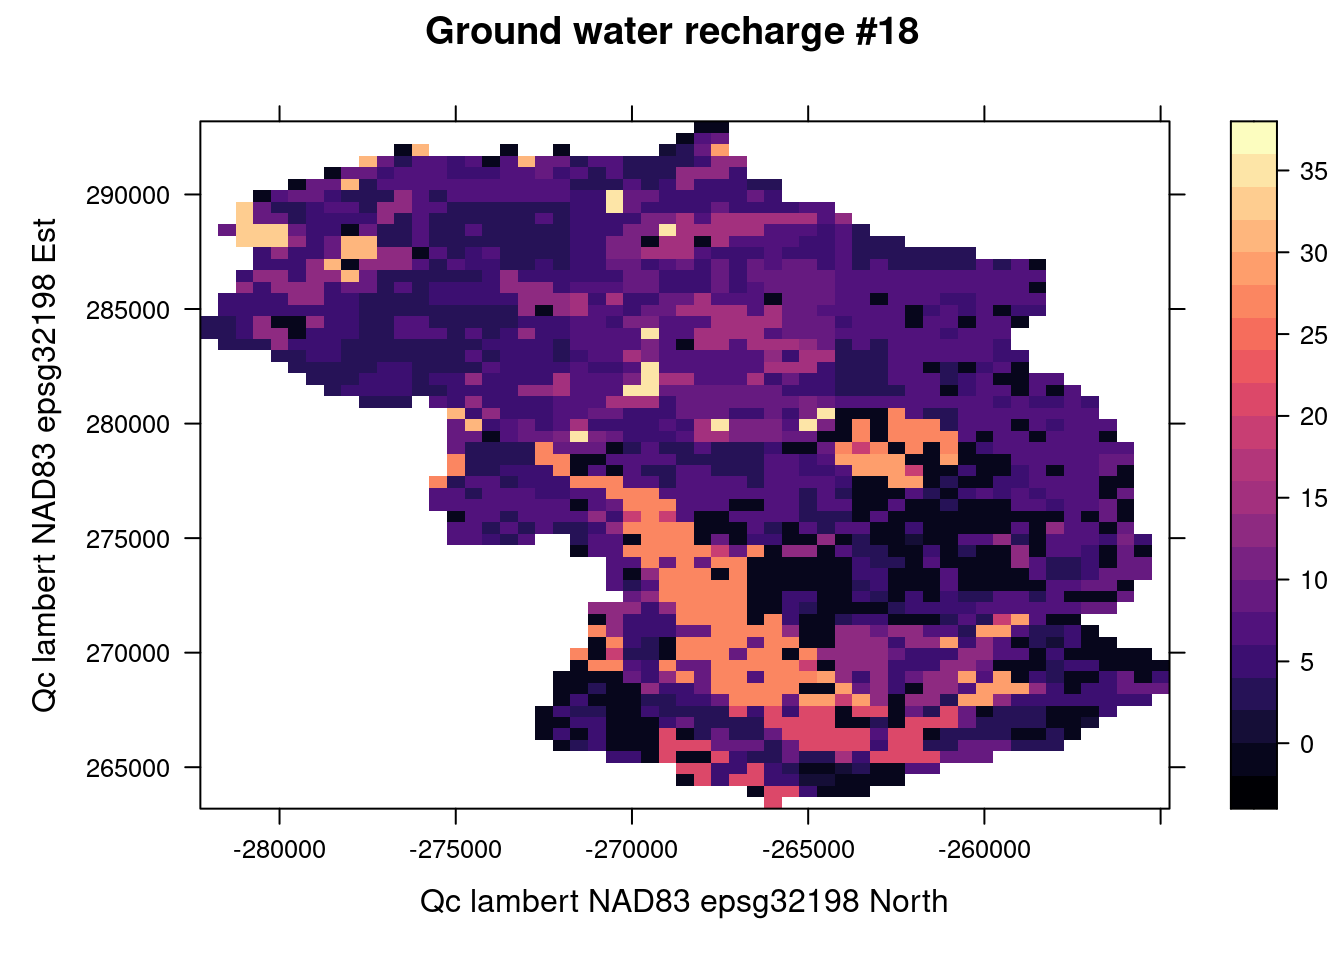
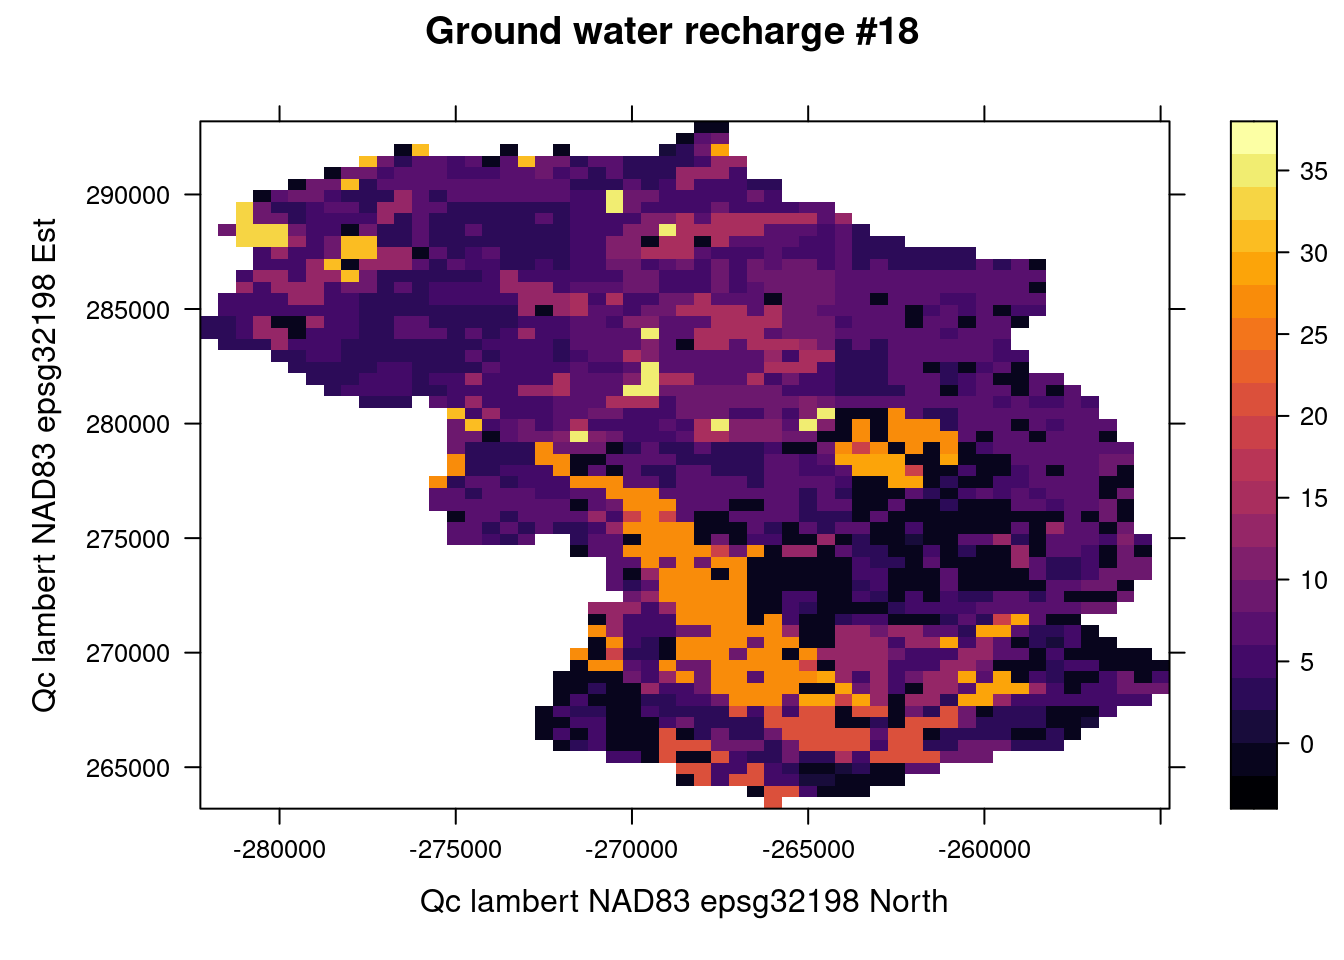
feat: use inferno as color palette

diff --git a/docs/example.html b/docs/example.html
@@ -449,7 +449,7 @@ div.csl-indent {
 <span id="cb13-16"><a href="example.html#cb13-16" tabindex="-1"></a>title <span class="ot">&lt;-</span> <span class="fu">paste0</span>(<span class="fu">ncatt_get</span>(nc, <span class="st">&quot;gwr&quot;</span>)<span class="sc">$</span>long_name, <span class="st">&quot; #&quot;</span>, month)</span>
 <span id="cb13-17"><a href="example.html#cb13-17" tabindex="-1"></a>xlab <span class="ot">&lt;-</span> <span class="fu">ncatt_get</span>(nc, <span class="st">&quot;lat&quot;</span>)<span class="sc">$</span>long_name</span>
 <span id="cb13-18"><a href="example.html#cb13-18" tabindex="-1"></a>ylab <span class="ot">&lt;-</span> <span class="fu">ncatt_get</span>(nc, <span class="st">&quot;lon&quot;</span>)<span class="sc">$</span>long_name</span>
-<span id="cb13-19"><a href="example.html#cb13-19" tabindex="-1"></a><span class="fu">levelplot</span>(gwr1 <span class="sc">~</span> lon <span class="sc">*</span> lat, <span class="at">data=</span>grid, <span class="at">pretty=</span>T, <span class="at">col.regions=</span><span class="fu">magma</span>(<span class="dv">100</span>),</span>
+<span id="cb13-19"><a href="example.html#cb13-19" tabindex="-1"></a><span class="fu">levelplot</span>(gwr1 <span class="sc">~</span> lon <span class="sc">*</span> lat, <span class="at">data=</span>grid, <span class="at">pretty=</span>T, <span class="at">col.regions=</span><span class="fu">inferno</span>(<span class="dv">100</span>),</span>
 <span id="cb13-20"><a href="example.html#cb13-20" tabindex="-1"></a>          <span class="at">main=</span>title, <span class="at">xlab=</span>xlab, <span class="at">ylab=</span>ylab)</span></code></pre></div>
 <p><img src="rechaRge-book_files/figure-html/unnamed-chunk-12-1.png" width="672" /></p>
 <div class="sourceCode" id="cb14"><pre class="sourceCode r"><code class="sourceCode r"><span id="cb14-1"><a href="example.html#cb14-1" tabindex="-1"></a><span class="fu">nc_close</span>(nc)</span></code></pre></div>

diff --git a/docs/rechaRge-book.tex b/docs/rechaRge-book.tex
@@ -478,7 +478,7 @@ Visualize the saved NetCDF file:
 \NormalTok{title }\OtherTok{\textless{}{-}} \FunctionTok{paste0}\NormalTok{(}\FunctionTok{ncatt\_get}\NormalTok{(nc, }\StringTok{"gwr"}\NormalTok{)}\SpecialCharTok{$}\NormalTok{long\_name, }\StringTok{" \#"}\NormalTok{, month)}
 \NormalTok{xlab }\OtherTok{\textless{}{-}} \FunctionTok{ncatt\_get}\NormalTok{(nc, }\StringTok{"lat"}\NormalTok{)}\SpecialCharTok{$}\NormalTok{long\_name}
 \NormalTok{ylab }\OtherTok{\textless{}{-}} \FunctionTok{ncatt\_get}\NormalTok{(nc, }\StringTok{"lon"}\NormalTok{)}\SpecialCharTok{$}\NormalTok{long\_name}
-\FunctionTok{levelplot}\NormalTok{(gwr1 }\SpecialCharTok{\textasciitilde{}}\NormalTok{ lon }\SpecialCharTok{*}\NormalTok{ lat, }\AttributeTok{data=}\NormalTok{grid, }\AttributeTok{pretty=}\NormalTok{T, }\AttributeTok{col.regions=}\FunctionTok{magma}\NormalTok{(}\DecValTok{100}\NormalTok{),}
+\FunctionTok{levelplot}\NormalTok{(gwr1 }\SpecialCharTok{\textasciitilde{}}\NormalTok{ lon }\SpecialCharTok{*}\NormalTok{ lat, }\AttributeTok{data=}\NormalTok{grid, }\AttributeTok{pretty=}\NormalTok{T, }\AttributeTok{col.regions=}\FunctionTok{inferno}\NormalTok{(}\DecValTok{100}\NormalTok{),}
           \AttributeTok{main=}\NormalTok{title, }\AttributeTok{xlab=}\NormalTok{xlab, }\AttributeTok{ylab=}\NormalTok{ylab)}
 \end{Highlighting}
 \end{Shaded}
